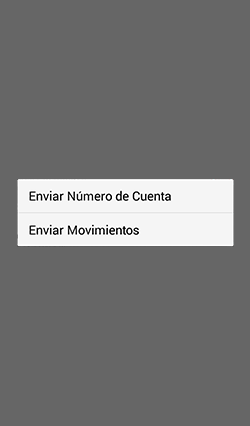
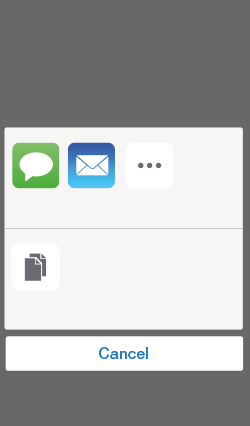
se reemplazo imagenes del primer contenedor

diff --git a/js/simulador.js b/js/simulador.js
@@ -1,6 +1,6 @@
 
 var  vista1, conteCuentas, frecuente, conteLogin, opeVista1, opeVista3, opeVista4, conteOperaciones, btnSiguiente, vista2, guia, guiaO, ahorroS, btnCuentas, btnMapa, btnCuentasOver, btnOperaciones, opeVista2, btnOperacionesOver, btnUs, conteMenu, vista3, pagosCyL, ubicacion1, ubicacion2, ubicacion3, btnUbicanos, btnSeguridad, btnComp, opeVista5, confirmarPago, vista4, btnCorreo, seg1, mandarEmail, animarMenu, conteUbicanos, btnTienda, btnNumCuentas, opt1, opt2, otd2, otd4, otd5, btnUbicanosOver, vistaT3, ahorroAsoles, aAmex, agilS, amex, transfDinero,btnSeguridadOver, btnPtajeta, btnTdinero1, btnTdinero2, btnTdinero5, otd3, btnTdinero3, btnTdinero3, conteSeguridad, btnSiguiente2, btnTdinero6, btnColor, btnColorsito, btnSiguienteSeguridad, otd6, btnTdinero7, opt4, opt5, otd1,prr;
-var $os = 'android';
+var $os = 'apple';
 var path;
 var myGuia;
 var opcPagoFrec = false;
